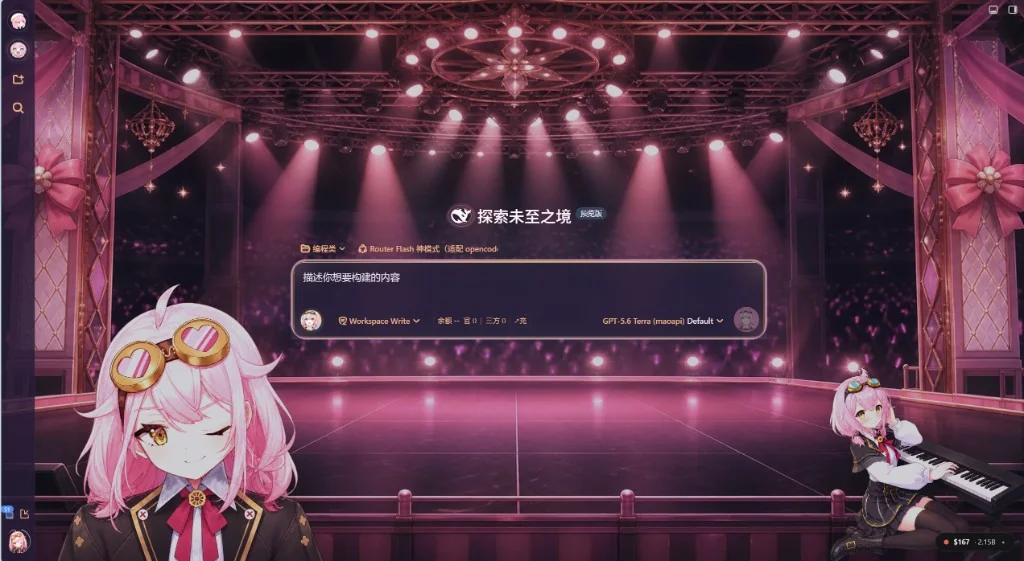
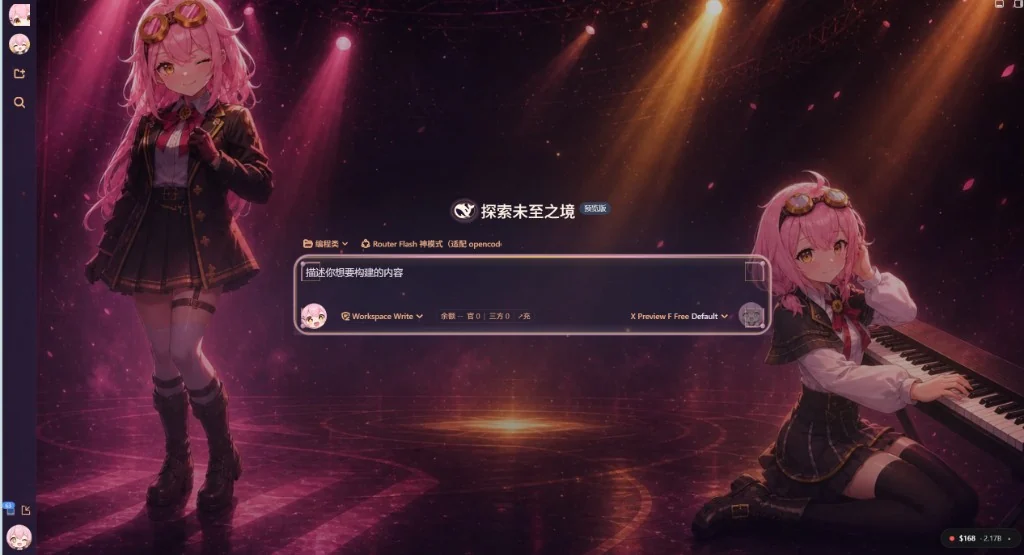
docs: refresh GitHub preview shots and atelier description

diff --git a/README.md b/README.md
@@ -2,7 +2,7 @@
 
 [![awesome · DSH plugin](https://awesome-dsh-plugin.com/badge.svg)](https://awesome-dsh-plugin.com)
 
-粉金亚克力 **DSH Web 主题** — 浅色/深色舞台立绘、可调透明层，以及可选的 **Taffy 塔菲** Agent 预设。
+粉金亚克力 **DSH Web 主题** — 浅色花房 / 深色舞台立绘、粉金对话框、塔菲 Q 版侧栏，以及可选的 **Taffy 塔菲** Agent 预设。
 
 | | |
 | --- | --- |
@@ -37,7 +37,7 @@ dsh web
 
 ## 简介
 
-**Taffy Live Atelier** 为 [DeepSeek Harness](https://github.com/deepseek-ai/deepseek-harness) Web 提供虚拟直播工房式界面：花房/舞台壁纸、粉金对话框边框、塔菲 Q 版按钮、左右立绘。资源全部本地打包，不依赖 CDN；**仅修改外观**，不影响对话逻辑与其他插件。
+**Taffy Live Atelier** 为 [DeepSeek Harness](https://github.com/deepseek-ai/deepseek-harness) Web 提供虚拟直播工房式界面：浅色花房与深色霓虹舞台、粉金亚克力对话框、塔菲 Q 版侧栏与左右立绘。资源全部本地打包，不依赖 CDN；**只改外观**，不影响对话逻辑与其他插件。
 
 - 架构思路参考 [maid-atelier](https://github.com/Small-tailqwq/dsh-deep-whale/tree/main/maid-atelier)，**未复制**其代码与资产
 - `--dsw-*` token 限定在 DSH 列容器内；亚克力 **opt-in**，降低误伤第三方插件风险
@@ -80,4 +80,4 @@ npm run install:release
 
 ## English
 
-Candy-pink acrylic theme for DSH Web. Install with the command above, then see [docs/install.en.md](docs/install.en.md) and [docs/usage.en.md](docs/usage.en.md).
+Candy-pink acrylic theme for DSH Web: light conservatory, dark neon stage, gold-pink chat frame, and Taffy character overlays. Install with the command above, then see [docs/install.en.md](docs/install.en.md) and [docs/usage.en.md](docs/usage.en.md).
